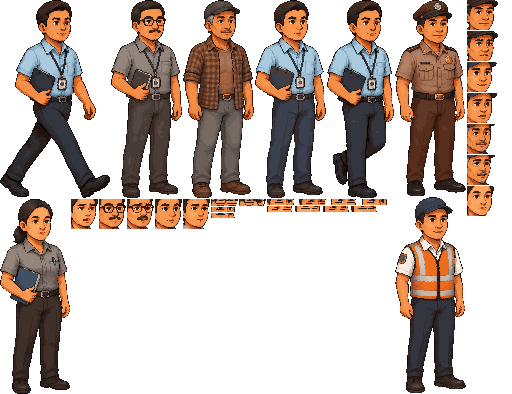
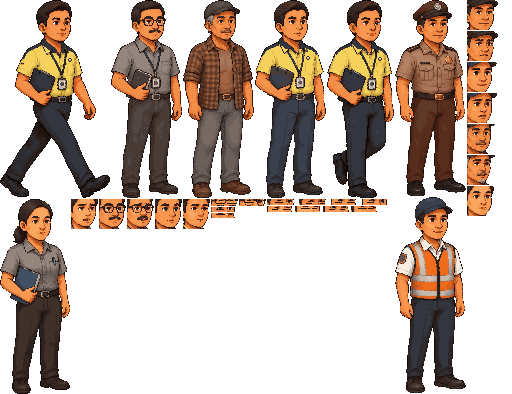
Seni (T-050): Miss Raksa di ruang komite, seragam polo kuning Raksa untuk surveyor Pak Rudi, meja layanan dengan monitor, headset dan tanda Sogok = NO / Service = YES

Changed region(s): [[0.5, 0.0914, 0.7812, 0.2437], [0.0312, 0.0914, 0.1562, 0.2437]]

diff --git a/client/src/cerita/ui/latar/piksel/ruang.ts b/client/src/cerita/ui/latar/piksel/ruang.ts
@@ -4,6 +4,8 @@
  * dengan catatan; ruang tanpa latar sah = tidak tersedia (adegan tetap ilustrasi, lihat PanggungLatarPiksel).
  * T-025: ruang boleh punya blok `komite` = sprite hiasan MILIK RUANG (anggota Komite Klaim; ./komite.ts). Atlas + tandanya
  * (komite.png, ep2-komite-tanda.png) ikut diglob di sini.
+ * T-050: kantor punya lapisan tambahan (ep2-kantor-tanda-sogok.png, ep2-kantor-monitor.png) dan blok `aksesori` (headset Miss
+ * Raksa, ep2-kantor-headset.png, hanya di frame berdiri-kanan); dipasang tools/piksel/kantor-t050.mjs.
  */
 import json from '../../../seni/piksel/ruang-ep2.json';
 import type { Kotak } from '../../panggung/dunia';
@@ -11,7 +13,7 @@ import { bacaKomite, type KomiteRuang } from './komite';
 
 let pngVite: Record<string, string> = {};
 try {
-  pngVite = import.meta.glob(['../../../seni/piksel/ep2-ruang-*.png', '../../../seni/piksel/ep2-komite-*.png', '../../../seni/piksel/komite.png'], { eager: true, query: '?url', import: 'default' });
+  pngVite = import.meta.glob(['../../../seni/piksel/ep2-ruang-*.png', '../../../seni/piksel/ep2-komite-*.png', '../../../seni/piksel/komite.png', '../../../seni/piksel/ep2-kantor-*.png'], { eager: true, query: '?url', import: 'default' });
 } catch {
   /* bukan Vite (tes node) */
 }
@@ -47,7 +49,14 @@ export interface RuangPiksel {
   bingkai: { hp: Kotak; lebar: Kotak };
   /** (T-025) Sprite hiasan milik ruang + peta keadaannya; null = ruang biasa. */
   komite: KomiteRuang | null;
+  /**
+   * (T-050) Aksesori per tokoh yang HANYA dipakai di ruang ini (headset Miss Raksa di meja layanan): gambar kecil yang digambar
+   * di atas frame atlas `frame` tokoh itu, di letak x, y (piksel seni, relatif pojok kiri-atas frame). Frame lain = tidak digambar.
+   */
+  aksesori: Record<string, AksesoriRuang>;
 }
+
+export interface AksesoriRuang { frame: string; url: string; x: number; y: number; w: number; h: number }
 
 type Obj = Record<string, unknown>;
 const obj = (v: unknown): Obj | null => (v && typeof v === 'object' && !Array.isArray(v) ? (v as Obj) : null);
@@ -63,6 +72,17 @@ function lapisan(id: string, v: unknown, catatan: string[]): LapisanRuangPiksel 
     return null;
   }
   return { id, url: urlBerkas(o.berkas), ...k, z: n(o.z) ? o.z : 10 };
+}
+
+/** T-050: aksesori tokoh milik ruang (toleran: entri cacat dilewati + catatan). */
+function bacaAksesori(v: unknown, ruang: string, catatan: string[]): Record<string, AksesoriRuang> {
+  const hasil: Record<string, AksesoriRuang> = {};
+  for (const [tokoh, av] of Object.entries(obj(v) ?? {})) {
+    const a = obj(av);
+    if (!a || typeof a.frame !== 'string' || typeof a.berkas !== 'string' || !n(a.x) || !n(a.y) || !n(a.pw) || !n(a.ph)) { catatan.push(`ruang ${ruang}: aksesori ${tokoh} tidak sah`); continue; }
+    hasil[tokoh] = { frame: a.frame, url: urlBerkas(a.berkas), x: a.x, y: a.y, w: a.pw, h: a.ph };
+  }
+  return hasil;
 }
 
 export function bacaRuangPiksel(m: unknown, catatan: string[] = []): Record<string, RuangPiksel> {
@@ -94,6 +114,7 @@ export function bacaRuangPiksel(m: unknown, catatan: string[] = []): Record<stri
       papan: papanK && typeof papanO?.teksKunci === 'string' ? { kotak: papanK, teksKunci: papanO.teksKunci, warna: typeof papanO.warna === 'string' ? papanO.warna : '#ffffff' } : null,
       bingkai: { hp: kotak(b?.hp) ?? { x: 300, y: 0, w: 1000, h: 900 }, lebar: kotak(b?.lebar) ?? { x: 0, y: 0, w: 1600, h: 900 } },
       komite: bacaKomite(o.komite, urlBerkas, id, catatan),
+      aksesori: bacaAksesori(o.aksesori, id, catatan),
     };
   }
   return hasil;

diff --git a/client/src/cerita/ui/latar/piksel/PanggungPiksel.tsx b/client/src/cerita/ui/latar/piksel/PanggungPiksel.tsx
@@ -249,8 +249,9 @@ export function PanggungPiksel({ ep, komposisi, adegan, tx, nama, suasana, statu
     const u = new Set<string>([...r.lapisan.map((l) => l.url), ...prop.map((p) => p.url), ...tokoh.map((x) => x.s.url)]);
     if (sisipan) u.add(sisipan.url);
     if (r.komite) { u.add(r.komite.url); u.add(r.komite.tanda.url); }
+    for (const x of tokoh) { const ak = r.aksesori[x.t.id]; if (ak && ak.frame === x.s.frame) u.add(ak.url); }
     return [...u].filter(Boolean);
-  }, [r, prop.map((p) => p.url).join(), tokoh.map((x) => x.s.url).join(), sisipan?.url]); // eslint-disable-line react-hooks/exhaustive-deps
+  }, [r, prop.map((p) => p.url).join(), tokoh.map((x) => `${x.s.url}#${x.s.frame}`).join(), sisipan?.url]); // eslint-disable-line react-hooks/exhaustive-deps
   const [siapUrl, setSiapUrl] = useState(() => url.every((u) => siap.has(u)));
   const kunciUrl = url.join('|');
   useEffect(() => {
@@ -340,6 +341,9 @@ export function PanggungPiksel({ ep, komposisi, adegan, tx, nama, suasana, statu
         for (const l of x.s.lapisan) {
           gambar(x.s.url, l.sumber.x, l.sumber.y, l.sumber.w, l.sumber.h, x.x + geser + (l.x - tubuh.x) * K, x.y - naik + (l.y - tubuh.y) * K, l.sumber.w * K, l.sumber.h * K);
         }
+        // T-050: aksesori milik ruang (headset Miss Raksa di meja layanan) hanya di frame yang ditulis ruangnya; ikut naik & cermin.
+        const ak = r.aksesori[x.t.id];
+        if (ak && ak.frame === x.s.frame) gambar(ak.url, 0, 0, ak.w, ak.h, x.x + geser + (ak.x - tubuh.x) * K, x.y - naik + (ak.y - tubuh.y) * K, ak.w * K, ak.h * K);
         if (tlp && tlp.tokoh === x.t.id) {
           // Titik (0, 0) bingkai tokoh di dunia; offset README telepon-v2 dalam koordinat bingkai. Ikut naik 1 piksel bila tokoh bernapas.
           const bx = x.x + geser - tubuh.x * K, by = x.y - naik - tubuh.y * K;

diff --git a/client/src/cerita/episode/auto-2/teks.en.ts b/client/src/cerita/episode/auto-2/teks.en.ts
@@ -66,9 +66,9 @@ export const TEKS_AUTO_2_EN: Record<string, string> = {
   // T-025: Ruang Rapat Komite Klaim. Nama ruang + SATU kalimat per keadaan ruang untuk pembaca layar (anggota komite dan tanda
   // SETUJU / CATATAN adalah gambar; tandanya tetap berbahasa Indonesia di semua bahasa, jadi kalimat ini yang membawa artinya).
   'lokasi.komite': 'Claims Committee meeting room',
-  'lokasi.komite.tunggu': 'Claims Committee meeting room. Four committee members sit waiting behind a long table.',
-  'lokasi.komite.setuju': 'Claims Committee meeting room. All four members nod, and an approval tag appears above each of them.',
-  'lokasi.komite.catatan': 'Claims Committee meeting room. Two members raise a hand, and a tag for a note appears above each of the two.',
+  'lokasi.komite.tunggu': 'Claims Committee meeting room. Four committee members sit waiting behind a long table. Miss Raksa stands at the end of the table as the host.',
+  'lokasi.komite.setuju': 'Claims Committee meeting room. All four members nod, and an approval tag appears above each of them. Miss Raksa stands at the end of the table as the host.',
+  'lokasi.komite.catatan': 'Claims Committee meeting room. Two members raise a hand, and a tag for a note appears above each of the two. Miss Raksa stands at the end of the table as the host.',
   'lokasi.komite.kosong': 'Claims Committee meeting room. The four chairs behind the long table are empty.',
   'latar.bengkel.antrean': 'This week’s queue',
   'latar.bengkel.penuh': 'FULL',

diff --git a/client/src/cerita/episode/auto-2/teks.id.ts b/client/src/cerita/episode/auto-2/teks.id.ts
@@ -57,9 +57,9 @@ export const TEKS_AUTO_2_ID: Record<string, string> = {
   // T-025: Ruang Rapat Komite Klaim. Nama ruang + SATU kalimat per keadaan ruang untuk pembaca layar (anggota komite dan tanda
   // SETUJU / CATATAN adalah gambar; tandanya tetap berbahasa Indonesia di semua bahasa, jadi kalimat ini yang membawa artinya).
   'lokasi.komite': 'Ruang Rapat Komite Klaim',
-  'lokasi.komite.tunggu': 'Ruang Rapat Komite Klaim. Empat anggota komite duduk menunggu di balik meja panjang.',
-  'lokasi.komite.setuju': 'Ruang Rapat Komite Klaim. Keempat anggota mengangguk; di atas tiap anggota muncul tanda setuju.',
-  'lokasi.komite.catatan': 'Ruang Rapat Komite Klaim. Dua anggota mengangkat tangan; di atas keduanya muncul tanda catatan.',
+  'lokasi.komite.tunggu': 'Ruang Rapat Komite Klaim. Empat anggota komite duduk menunggu di balik meja panjang. Miss Raksa berdiri di ujung meja sebagai tuan rumah.',
+  'lokasi.komite.setuju': 'Ruang Rapat Komite Klaim. Keempat anggota mengangguk; di atas tiap anggota muncul tanda setuju. Miss Raksa berdiri di ujung meja sebagai tuan rumah.',
+  'lokasi.komite.catatan': 'Ruang Rapat Komite Klaim. Dua anggota mengangkat tangan; di atas keduanya muncul tanda catatan. Miss Raksa berdiri di ujung meja sebagai tuan rumah.',
   'lokasi.komite.kosong': 'Ruang Rapat Komite Klaim. Keempat kursi di balik meja panjang kosong.',
   'latar.bengkel.antrean': 'Antrean minggu ini',
   'latar.bengkel.penuh': 'PENUH',

diff --git a/client/src/cerita/episode/auto-2/teks.zh.ts b/client/src/cerita/episode/auto-2/teks.zh.ts
@@ -65,9 +65,9 @@ export const TEKS_AUTO_2_ZH: Record<string, string> = {
   // T-025: Ruang Rapat Komite Klaim. Nama ruang + SATU kalimat per keadaan ruang untuk pembaca layar (anggota komite dan tanda
   // SETUJU / CATATAN adalah gambar; tandanya tetap berbahasa Indonesia di semua bahasa, jadi kalimat ini yang membawa artinya).
   'lokasi.komite': '理赔委员会会议室',
-  'lokasi.komite.tunggu': '理赔委员会会议室。四位委员坐在长桌后面等候。',
-  'lokasi.komite.setuju': '理赔委员会会议室。四位委员都点了头，每人头顶出现“同意”标记。',
-  'lokasi.komite.catatan': '理赔委员会会议室。两位委员举起了手，两人头顶出现“备注”标记。',
+  'lokasi.komite.tunggu': '理赔委员会会议室。四位委员坐在长桌后面等候。Miss Raksa 作为主持人站在长桌一端。',
+  'lokasi.komite.setuju': '理赔委员会会议室。四位委员都点了头，每人头顶出现“同意”标记。Miss Raksa 作为主持人站在长桌一端。',
+  'lokasi.komite.catatan': '理赔委员会会议室。两位委员举起了手，两人头顶出现“备注”标记。Miss Raksa 作为主持人站在长桌一端。',
   'lokasi.komite.kosong': '理赔委员会会议室。长桌后面的四把椅子都空着。',
   'latar.bengkel.antrean': '本周排期',
   'latar.bengkel.penuh': '已满',

diff --git a/team/HANDOFF.md b/team/HANDOFF.md
@@ -2882,3 +2882,61 @@ QA added 3 expect (snapshot) tests with node:test `t.assert.snapshot` (record: `
   - Layout unchanged (no height change), so it still fits 360x640.
 
 **Gate (owner rule):** typecheck 0; `client/dist` rebuilt = exact copy. Not tested in a browser or on a phone. Not committed.
+
+## T-050 (2026-11-19): Miss Raksa in the committee room, Raksa yellow surveyor uniform, service-desk monitor + sign + headset (Designer)
+
+Built by the Designer and uncommitted. Owner rule: NOTHING was opened in a browser. The previews are composed from the PNGs by script, not taken from the app. Gate: client typecheck 0 errors; client/dist rebuilt (the three `ep2-kantor-*` PNGs are in dist/assets).
+
+**1. Committee room (Part 4): Miss Raksa as host.**
+- **Where she stands:** at the right end of the table, in front of the whiteboard, facing the members, smiling.
+  - Feet at art (366, 214), frame box 338, 31, 61×184.
+  - She covers no face and no SETUJU / CATATAN tag; the table hides her near leg.
+- **How she is built:** she is a 5th room sprite `missRaksa` with `tamu: true`.
+  - She has no tag, no vote and no istilah icon.
+  - She appears in tunggu, setuju (standing still) and catatan; she is absent in `kosong`.
+  - Her pixels are copied 1:1 from her in-game `berdiri-kiri` frame with the senyum face, and she blinks like the members.
+- **Camera:** `fokus` widened to art x 63..390 and `bingkai.hp` to x 62.5..391.5.
+  - Cost (calculated, not measured): 390–402 px wide phones at DPR 3 now draw the room at 1 CSS px per art px instead of 1.33.
+  - 430 px wide keeps 1.33. A 320 px wide phone at DPR 2 halves.
+  - The Lead can revert it with one number if the owner prefers bigger faces.
+- **Text:** the screen-reader room sentences (lokasi.komite.tunggu / setuju / catatan, id/en/zh) now mention her. The visible "Hadir:" line lists cast members only; this room has none, so it is unchanged.
+- **Files:**
+  - `character/komite-ep2-pixel-v1/alat/miss-raksa-t050.mjs` (new)
+  - `komite.png` (315×193), `komite.json`, `ruang-komite.json`, README "T-050"
+  - `tools/piksel/ruang-komite-ep2.mjs` (accepts `tamu`: no tag place, no icon)
+  - `client/src/cerita/seni/piksel/komite.png`, `ruang-ep2.json`
+  - `client/src/cerita/episode/auto-2/teks.{id,en,zh}.ts`
+- **Previews:** `character/komite-ep2-pixel-v1/pratinjau-miss-raksa-t050-2x.png` and `pratinjau-miss-raksa-fokus-t050-2x.png`.
+
+**2. Pak Rudi (Surveyor): Raksa yellow polo, from the real uniform.**
+- **Yellow #F6D25C:** sampled from the owner's poster `character/surveyor-raksa-ref/seragam-surveyor-raksa.jpg`. It is the mean of the most common brightness band of the shirt pixels (861 px).
+  - Ramp: #F6D25C main, #E2B74D shadow, #C69E43 deep, #9E7F20 folds.
+  - The saved raksaonline.com CSS has no colours (fonts only), so the photo is the source.
+- **Black parts:** collar and shoulder yoke in #33363F / #2C2C31, plus a small owl patch on the chest and a mark on the sleeve.
+- **Unchanged:** face, hair, skin, lanyard and ID card, tablet, trousers, pose and grid.
+- **Scope:** the change is in the runtime atlas `client/src/cerita/seni/piksel/samping.png` (his 3 body frames + the collar rows of his 2 face cells), so every Rudi scene, portrait and the K04 pin follow it.
+- **Not changed:**
+  - the Committee's own Surveyor seat (a different person in a khaki vest). The Lead can ask for the same yellow there if wanted.
+  - the Underwriter, who was once drawn from Rudi.
+- **Files:**
+  - `character/tokoh-samping-ep2-pixel-v1/seragam-rudi-t050/`: `seragam.mjs` (idempotent; rerun it after `tools/piksel/bangun-samping.mjs`), `png.mjs`, README.
+- **Previews:** `rudi-sebelum-sesudah-3x.png` and `rudi-dada-sebelum-sesudah-6x.png`.
+
+**3. Part 1 service desk.**
+- **Wall sign:** "SOGOK = NO / SERVICE = YES" with the smiley badge (maroon ring, waving glove).
+  - It is a beige plaque that replaces the framed picture (layer z 12, art x 224, y 16), between Miss Raksa's head and the clock.
+  - The text is in a 5×7 pixel font and not translated. The ring words were dropped (unreadable at 31 px).
+- **Monitor and keyboard:** a black monitor seen from behind, left of the desk phone, plus a keyboard in front of her on the counter (layer z 31: above the counter, below Pak Hendra).
+- **Headset:** grey band over the crown, ear cup on her visible ear, boom ending 1 px left of the mouth; eyes and mouth are uncovered.
+  - It is drawn only in the office room and only on her desk frame `berdiri-kanan`, through a new room `aksesori` block (`ruang.ts` parses it; `PanggungPiksel.tsx` draws it after her frame and preloads it).
+  - It does not appear in the committee room or in the phone-in-hand frames.
+- **Files:**
+  - `character/kantor-ep2-pixel-v1/t050/` (bangun.mjs, 3 PNG, kantor-t050.json, README)
+  - `tools/piksel/kantor-t050.mjs` (new installer); `tools/piksel/bangun-ruang-ep2.mjs` calls it
+  - `client/src/cerita/seni/piksel/ep2-kantor-{tanda-sogok,monitor,headset}.png`, `ruang-ep2.json`
+  - `client/src/cerita/ui/latar/piksel/ruang.ts`, `PanggungPiksel.tsx`
+- **Previews:** `character/kantor-ep2-pixel-v1/t050/pratinjau-kantor-t050-3x.png` (before/after), `-1x.png`, `pratinjau-headset-8x.png`.
+
+**Risks:**
+- Tests that count 4 committee members (`data-komite-anggota`), that pin the office room's layer list, or that pin the samping.png hash will need updating. None were run (owner rule).
+- The camera scale numbers for the committee room are calculated from the README table, not measured.

diff --git a/team/BOARD.md b/team/BOARD.md
@@ -50,6 +50,7 @@ Status: todo | doing | review | bug | done
 | T-047 | Real loading bar into the playable case (auto-2) that preloads chunk, pictures, first music, button SFX + cache headers | Fullstack -> owner phone check | ready for owner phone check | owner 2026-11-19 · built, uncommitted, typecheck 0, client/dist rebuilt · NOT browser- or phone-tested |
 | T-048 | Story SFX from CC0 samples (no crackly noise), orange button at half level, no start-then-cut | Fullstack -> owner phone check | ready for owner phone check | owner 2026-11-19 · built, uncommitted, typecheck 0, client/dist rebuilt (6 WAVs byte-identical in dist/audio) · NOT browser- or phone-tested |
 | T-049 | Silent choice taps get a sound (default ketuk in the story player) + manual row matching in SIM step 4 | Fullstack -> owner phone check | ready for owner phone check | owner 2026-11-19 (live 228598c) · built, uncommitted, typecheck 0, client/dist rebuilt · NOT browser- or phone-tested |
+| T-050 | Pixel art: Miss Raksa as host in the committee room (Part 4); Pak Rudi in the real Raksa yellow surveyor polo (#F6D25C from the owner's poster, black collar + yoke, owl patch); Part 1 desk: monitor + keyboard, "Sogok = NO / Service = YES" wall sign, Miss Raksa headset (desk frame only) | Designer -> owner phone check | ready for owner phone check | owner 2026-11-19 (+ Lead items: real uniform photo, desk monitor/sign, headset) · built, uncommitted, client typecheck 0, client/dist rebuilt · previews in character/komite-ep2-pixel-v1, tokoh-samping-ep2-pixel-v1/seragam-rudi-t050, kantor-ep2-pixel-v1/t050 · committee camera widened: 390-402 px phones now 1 CSS px per art px (was 1.33), calculated · NOT browser-tested (owner rule) · HANDOFF "T-050" |
 | T-028 | Episode 2 as a hosted story room: converter auto-2 -> ScenarioContent v2, seeded next to DEMO Baret, host picks it; default policy story-70-30-v2 (PRD 70:30, 30 s) | Codex plan -> Fullstack -> Codex code -> QA | done | owner GO 2026-11-17 ("just go for default"; PRD checked) · spec team/specs/2026-11-17-T-028-ep2-room.md · medium · Codex plan APPROVE WITH CHANGES (rev 1.1: id+en only, 15 base decisions, flags only where read later, demo contentSource, idempotent seed) · Fullstack build running · Fullstack: built (uncommitted) 2026-11-17 19:45: converter tools/cerita/ep2-ke-skenario.mts -> generated seed server/src/story/seed/ep2Trailer.ts (15 x 5, script key and status changes kept, accuracy 1 / 0.5 / 0, the promise flag K12 A -> K14, id + en 480 texts each, validator 0 errors; 24 approximations and 28 text compositions in docs/prd-v02/EP2-ROOM-CONVERSION.md); idempotent publication server/src/story/seed/publish.ts at server start and in dev-setup (a reseed writes nothing, the DEMO set is unchanged, CMS work by people is never overridden, STORY_SEED=off skips it); test:server 202/202 (10 new), test:client 771/771 (9 new), tools/cek-room-t028.mjs (new) ALL PASS (6): Chromium id all 15 rounds to the final summary, en round 1, WebKit round 1; FLAGS for the Lead: rooms show Indonesian only (the runtime reads one fixed content language; English is converted and stored, not shown); the demo is published by dev-setup only, so this seed is the first content the server publishes itself, also in production; Pak Hendra has no portrait (not data + URL); every screen marks it demo content while the solo card says KASUS NYATA; the solo Episode 2 gives the key away (VITE_CERITA_TANPA=auto-2 exists); two converter sentences to confirm (timeout, synopsis ending); server/dist not rebuilt, so the owner's :4000 has no seed until it is; HANDOFF "T-028"; Codex code review next | QA 2026-11-17: PASS, 0 bugs (team/QA-REPORT.md "## T-028").
 
 ## Overnight 2026-11-16/17 (owner asleep, authorised "just go")
